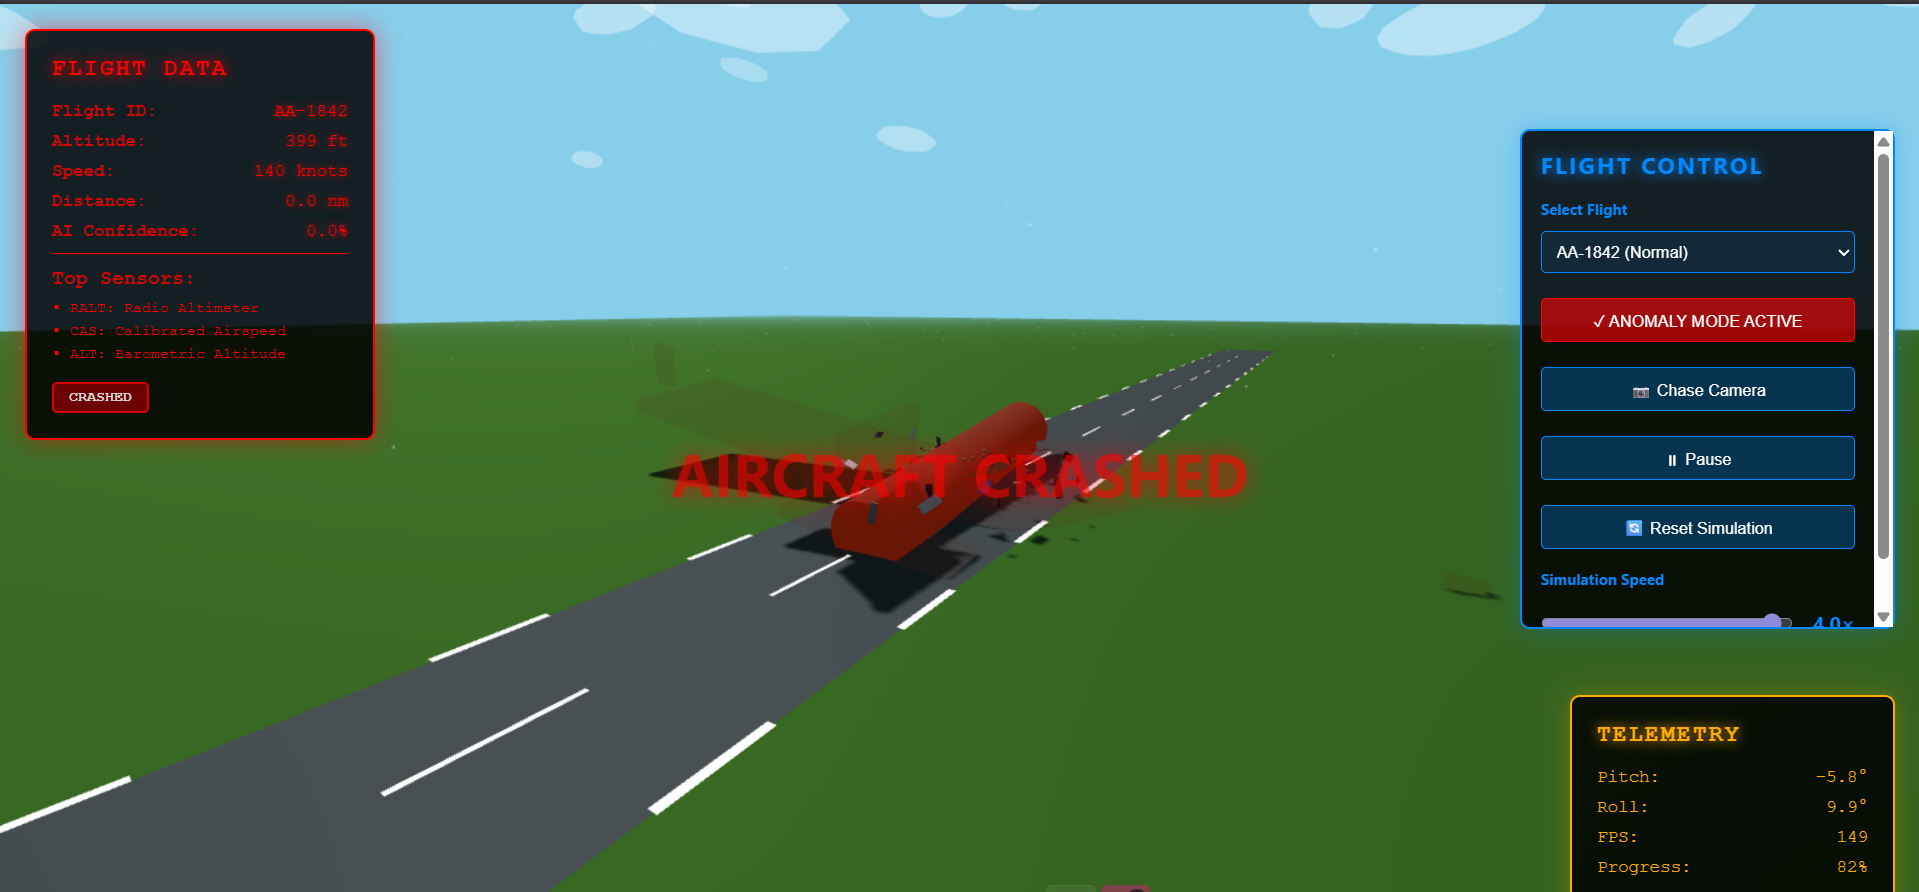
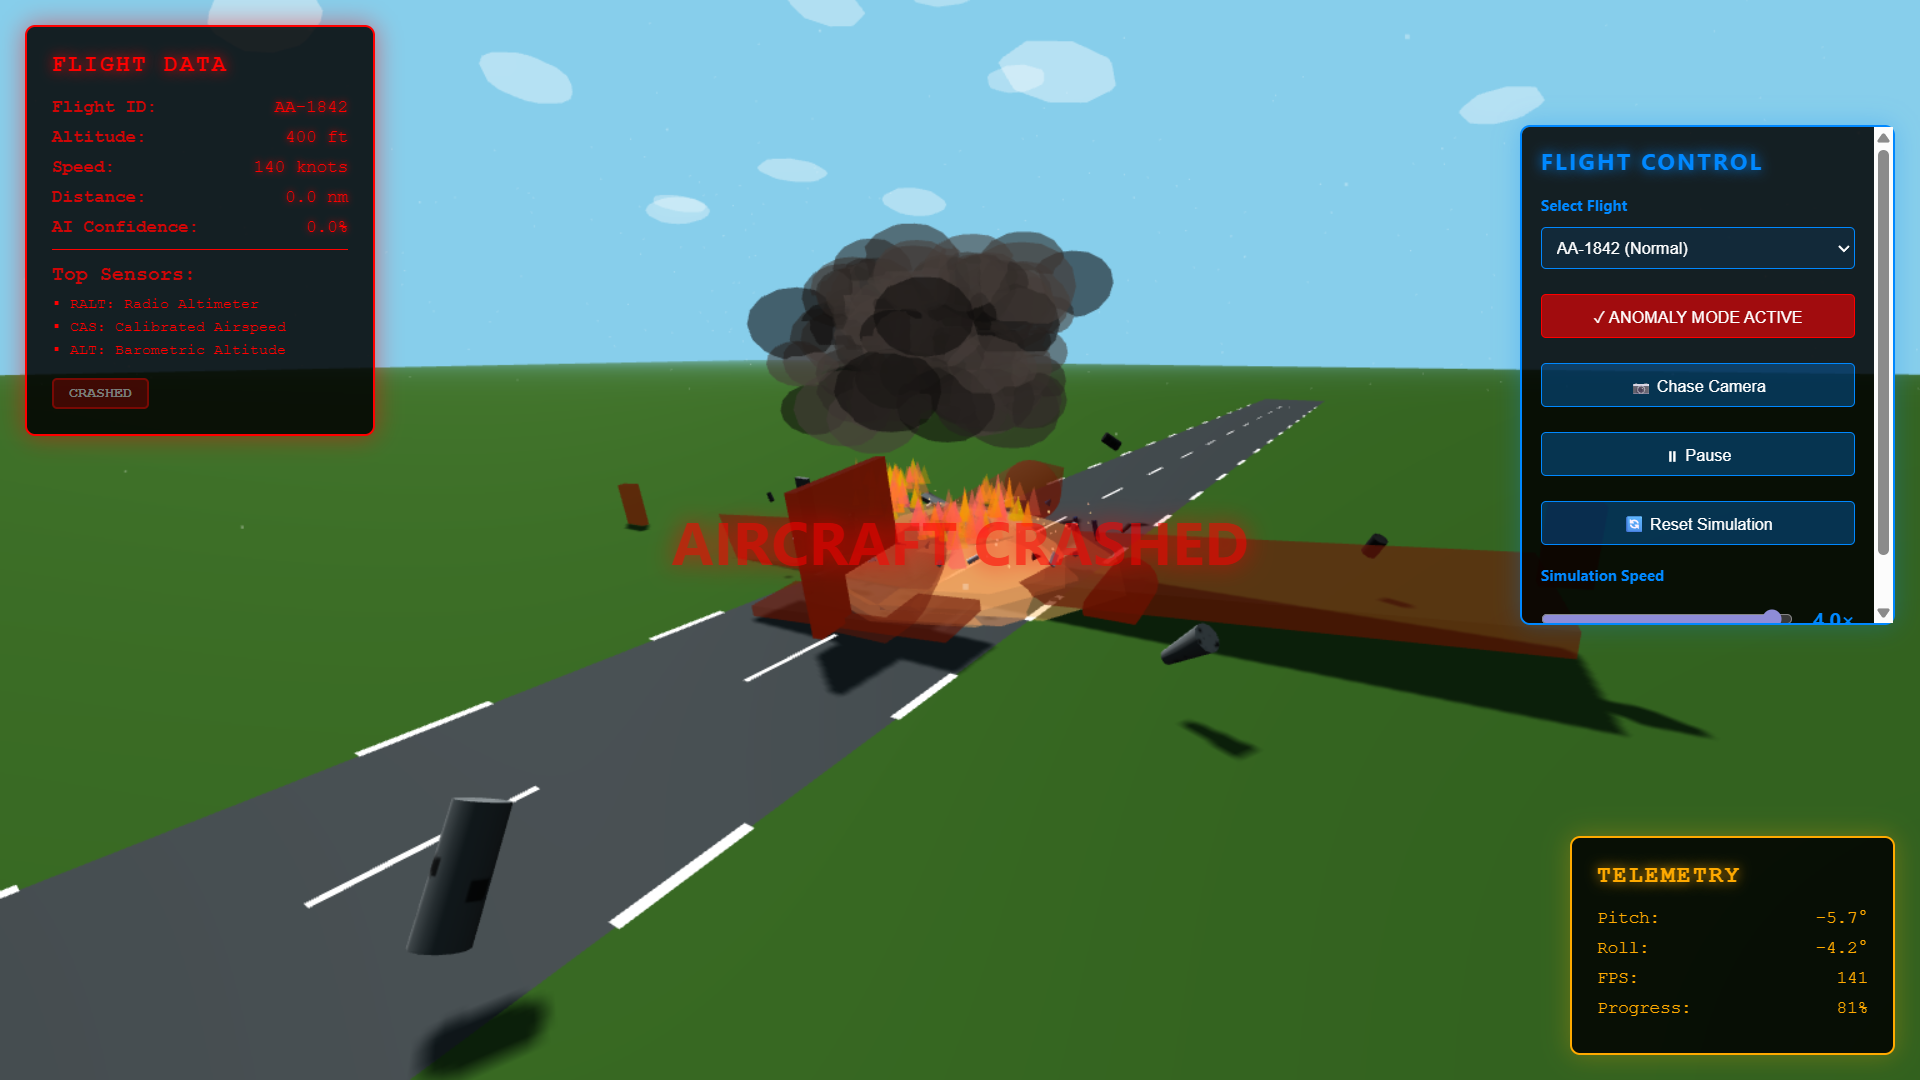
Complete visual documentation with all dashboard screenshots
- Added ui8.png system diagnostics interface
- README now includes complete visual documentation
- All dashboard features properly showcased with screenshots
- Enhanced presentation quality for hackathon demo

diff --git a/README.md b/README.md
@@ -70,6 +70,9 @@ The interactive Streamlit dashboard provides comprehensive visualization and ana
 ![Advanced Analytics](ASSETS/ui7.jpeg)
 *Advanced analytics interface with detailed flight performance metrics*
 
+![System Diagnostics](ASSETS/ui8.png)
+*Comprehensive system diagnostics and performance monitoring*
+
 ## 🛠 Tech Stack
 
 | Component | Technology | Purpose |
